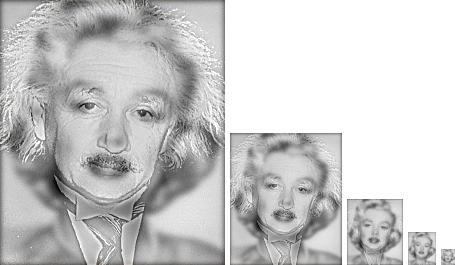
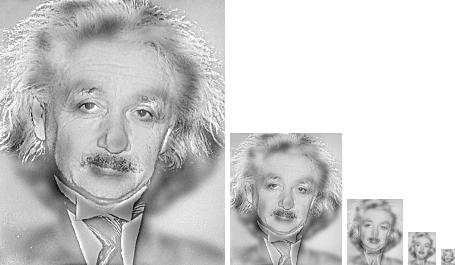
changed testFFT to produce high pass filtered images and changes to gen_hybrid_image.py to produce all hybrid images

diff --git a/project1/my_imfilter.py b/project1/my_imfilter.py
@@ -21,7 +21,6 @@ EMBOSS = np.array([[-2, -1, 0],
                    [0, 1, 2]])
 
 
-
 def my_imfilter(image: np.ndarray, kernel: np.ndarray) -> (np.ndarray, np.ndarray):
     """
         Wrapper Function for imConvolute. Created to meet assignment
@@ -265,7 +264,7 @@ def fourierDomain(image, kernel):
     for i in range(image.shape[2]):
         Fc = np.fft.fft2(np.fft.ifftshift(image[:, :, i]))
         Fk = np.fft.fft2(np.fft.ifftshift(padded_kernel))
-        output_img[:, :, i] = np.abs(np.fft.ifftshift(np.fft.ifft2(Fc * Fk)))
+        output_img[:, :, i] = np.abs(np.fft.ifftshift(np.fft.ifft2(Fc * Fk))).clip(-1,1)
 
     return skimage.img_as_ubyte(output_img) if color else skimage.img_as_ubyte(output_img)[:, :, 0]
 
@@ -368,7 +367,7 @@ def testFFT(image_name):
         :return: None
     """
     image = io.imread(image_name, as_gray=True)
-    fig, axs = plt.subplots(2,2)
+    fig, axs = plt.subplots(3,2)
     fig.tight_layout(h_pad=2)
     plt.subplots_adjust(top=0.9)
     padded_gaussian = np.zeros(image.shape)
@@ -388,11 +387,21 @@ def testFFT(image_name):
     axs[1,0].imshow(skimage.img_as_ubyte(np.real(np.log10(np.fft.fftshift(filtered_fft))).clip(-1,1)), cmap='gray')
     axs[1,0].set_title('Low Pass Filtered Image')
 
-    reconstructed = np.real(np.fft.ifftshift(np.fft.ifft2(filtered_fft))).clip(-1,1)
-    axs[1,1].imshow(skimage.img_as_ubyte(reconstructed), cmap='gray')
-    axs[1,1].set_title('Reconstructed Filtered Image')
+    filtered_fft_high = img_fft - filtered_fft
+    axs[2, 0].imshow(skimage.img_as_ubyte(np.real(np.log10(
+        np.fft.fftshift(filtered_fft_high))).clip(-1,1)), cmap='gray')
+    axs[2, 0].set_title('High Pass Filtered Image')
+
+    reconstructed_lowpass = np.real(np.fft.ifftshift(np.fft.ifft2(filtered_fft))).clip(-1,1)
+    axs[1,1].imshow(skimage.img_as_ubyte(reconstructed_lowpass), cmap='gray')
+    axs[1,1].set_title('Reconstructed Low-pass Image')
+
+    reconstructed_highpass = np.real(np.fft.ifftshift(np.fft.ifft2(filtered_fft_high))).clip(-1, 1)
+    axs[2, 1].imshow(skimage.img_as_ubyte(reconstructed_highpass), cmap='gray')
+    axs[2, 1].set_title('Reconstructed High-pass Image')
 
     fig.savefig('tests/fft_transformed_'+image_name[5:-3]+'jpg')
+
 
 def testUnevenKernel():
     # Uneven Kernel Test

diff --git a/project1/gen_hybrid_image.py b/project1/gen_hybrid_image.py
@@ -10,10 +10,28 @@ def generateCog():
 
 
 def generateAlbertMonroe():
-    img2 = io.imread('data/einstein.bmp', as_gray=False)
-    img1 = io.imread('data/marilyn.bmp', as_gray=False)
-    new_image = hybridise(img1, img2, sigma1=3, sigma2=2, fourier=False)
+    img2 = io.imread('data/einstein.bmp', as_gray=True)
+    img1 = io.imread('data/marilyn.bmp', as_gray=True)
+    new_image = hybridise(img1, img2, sigma1=4, sigma2=2, fourier=True)
     io.imsave('hybrid_images/albert_monroe.jpg', new_image)
+
+def generateBiMotorCycle():
+    img2 = io.imread('data/bicycle.bmp', as_gray=False)
+    img1 = io.imread('data/motorcycle.bmp', as_gray=False)
+    new_image = hybridise(img1, img2, sigma1=5, sigma2=2, fourier=True)
+    io.imsave('hybrid_images/bimotorcycle.jpg', new_image)
+
+def generateFishMarine():
+    img2 = io.imread('data/submarine.bmp', as_gray=False)
+    img1 = io.imread('data/fish.bmp', as_gray=False)
+    new_image = hybridise(img1, img2, sigma1=5, sigma2=4, fourier=True)
+    io.imsave('hybrid_images/fishmarine.jpg', new_image)
+
+def generatePlird():
+    img2 = io.imread('data/plane.bmp', as_gray=False)
+    img1 = io.imread('data/bird.bmp', as_gray=False)
+    new_image = hybridise(img1, img2, sigma1=5, sigma2=4, fourier=True)
+    io.imsave('hybrid_images/plird.jpg', new_image)
 
 
 if __name__ == '__main__':
@@ -22,4 +40,7 @@ if __name__ == '__main__':
 
     generateCog()
     generateAlbertMonroe()
+    generateBiMotorCycle()
+    generateFishMarine()
+    generatePlird()
 
